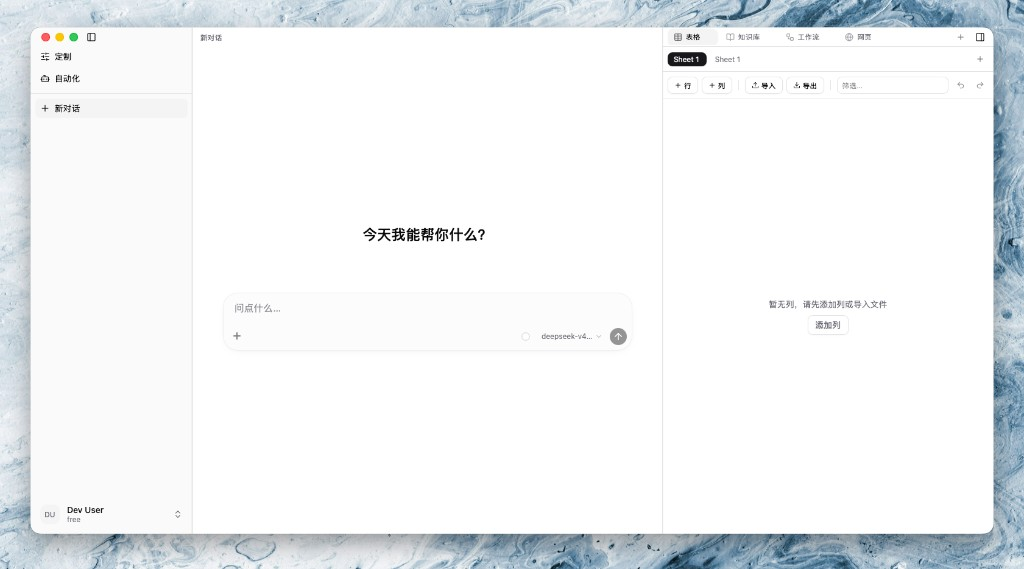
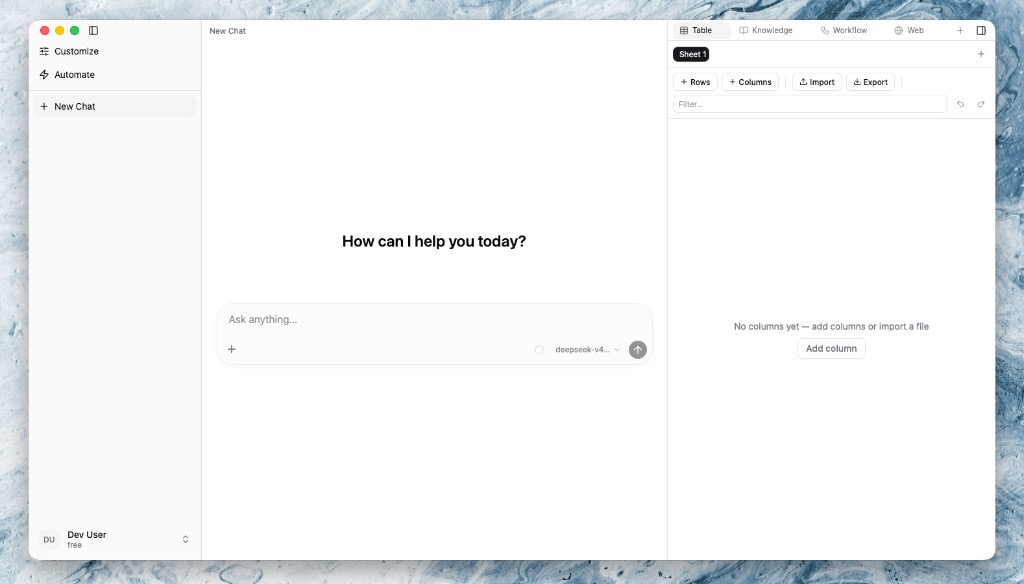
fix: dedupe sheet names, harden sheet delete, and unbreak Playwright smoke
Repair legacy duplicate sheet tabs on load, avoid full-grid reloads on
sheetsChange, flush persists before delete, and run e2e against the tsx
dev server. Also split EN/ZH README screenshots.

diff --git a/apps/server/src/table-store.ts b/apps/server/src/table-store.ts
@@ -123,7 +123,8 @@ function migrateLegacyEmptySheet(sheet: SheetState): boolean {
   sheet.columns = [];
   sheet.rows = [];
   if (sheet.meta.builtin && sheet.meta.name === 'Main Plan') {
-    sheet.meta.name = 'Sheet 1';
+    // Prefer "Sheet 1", but never collide with an existing tab name.
+    sheet.meta.name = allocateUniqueSheetName('Sheet 1', sheet.meta.id);
   }
   return true;
 }
@@ -258,6 +259,7 @@ export async function initTableStore(): Promise<void> {
     if (!sheetStore.has(DEFAULT_TABLE_SHEET)) {
       const initial = buildInitialStore();
       const main = initial.get(DEFAULT_TABLE_SHEET)!;
+      main.meta.name = allocateUniqueSheetName(main.meta.name, DEFAULT_TABLE_SHEET);
       sheetStore.set(DEFAULT_TABLE_SHEET, main);
       await enqueuePersist(DEFAULT_TABLE_SHEET);
     }
@@ -265,6 +267,7 @@ export async function initTableStore(): Promise<void> {
     for (const sheet of sheetStore.values()) {
       if (migrateLegacyEmptySheet(sheet)) migrated = true;
     }
+    if (repairDuplicateTableSheetNames()) migrated = true;
     if (migrated) await persistAll();
   }
   tableHydrated = true;
@@ -390,6 +393,10 @@ export function tryResolveTableSheetId(value: string | undefined): string | null
 }
 
 export function listTableSheets(): TableSheetMeta[] {
+  // One-shot repair for processes that hydrated before duplicate-name repair existed.
+  if (repairDuplicateTableSheetNames()) {
+    for (const id of sheetStore.keys()) tablePersist(id);
+  }
   return [...sheetStore.values()].map((s) => ({ ...s.meta }));
 }
 
@@ -643,6 +650,62 @@ export function isTableSheetNameTaken(name: string, excludeSheetId?: string): bo
   return false;
 }
 
+/**
+ * Pick a display name that does not collide with existing sheets.
+ * "Sheet 1" style names bump the number; other names get " (2)", " (3)", …
+ */
+export function allocateUniqueSheetName(preferred: string, excludeSheetId?: string): string {
+  const trimmed = preferred.trim() || 'Sheet';
+  if (!isTableSheetNameTaken(trimmed, excludeSheetId)) return trimmed;
+
+  const sheetMatch = trimmed.match(/^sheet\s*(\d+)$/i);
+  if (sheetMatch || /^sheet$/i.test(trimmed)) {
+    let n = sheetMatch ? Number(sheetMatch[1]) + 1 : 2;
+    while (isTableSheetNameTaken(`Sheet ${n}`, excludeSheetId)) n += 1;
+    return `Sheet ${n}`;
+  }
+
+  let n = 2;
+  while (isTableSheetNameTaken(`${trimmed} (${n})`, excludeSheetId)) n += 1;
+  return `${trimmed} (${n})`;
+}
+
+/**
+ * Repair legacy duplicate display names (created before uniqueness was enforced,
+ * or by Main Plan → Sheet 1 migration colliding with an existing tab).
+ * Keeps `main` / earlier ids; renames later collisions.
+ */
+export function repairDuplicateTableSheetNames(): boolean {
+  const ordered = [...sheetStore.values()].sort((a, b) => {
+    if (a.meta.id === DEFAULT_TABLE_SHEET) return -1;
+    if (b.meta.id === DEFAULT_TABLE_SHEET) return 1;
+    return a.meta.id.localeCompare(b.meta.id);
+  });
+  const claimed = new Set<string>();
+  let changed = false;
+  for (const sheet of ordered) {
+    const key = sheetNameKey(sheet.meta.name);
+    if (!key) continue;
+    if (!claimed.has(key)) {
+      claimed.add(key);
+      continue;
+    }
+    const next = allocateUniqueSheetName(sheet.meta.name, sheet.meta.id);
+    if (next === sheet.meta.name) continue;
+    sheet.meta = { ...sheet.meta, name: next };
+    claimed.add(sheetNameKey(next));
+    changed = true;
+  }
+  return changed;
+}
+
+/** Test-only: set a display name without uniqueness checks (to seed duplicate fixtures). */
+export function unsafeSetTableSheetNameForTests(sheetId: string, name: string): void {
+  const sheet = sheetStore.get(sheetId);
+  if (!sheet) throw new Error(`sheet not found: ${sheetId}`);
+  sheet.meta = { ...sheet.meta, name };
+}
+
 export function createTableSheet(name: string): TableSheetMeta | null {
   const trimmed = name.trim();
   if (!trimmed) return null;
@@ -677,29 +740,35 @@ export function renameTableSheet(sheetId: string, name: string): TableSheetMeta 
 export async function deleteTableSheet(sheetId: string): Promise<boolean> {
   const sheet = sheetStore.get(sheetId);
   if (!sheet) return false;
-  const snapshot: SheetState = {
-    meta: { ...sheet.meta },
-    columns: sheet.columns.map((c) => ({ ...c })),
-    rows: sheet.rows.map((r) => ({ ...r })),
-  };
-  sheetStore.delete(sheetId);
+
+  // Finish any in-flight persist first — otherwise a queued write can resurrect
+  // the sheet (or race Surreal) after DELETE. Avoid cloning all rows for rollback:
+  // large sheets (10k+ rows) would spike memory and make delete feel like a hang.
+  const pending = persistChains.get(sheetId);
+  if (pending) {
+    try {
+      await pending;
+    } catch {
+      /* persist errors are already logged */
+    }
+  }
+  persistChains.delete(sheetId);
+
   try {
     await deleteTableSheetDb(sheetId);
-    await ensureAtLeastOneSheet();
-    emitTable({ type: 'sheetsChange' });
-    return true;
   } catch (e) {
     console.error('[table] delete sheet failed:', e);
-    sheetStore.set(sheetId, snapshot);
-    if (sheetStore.size === 0) {
-      try {
-        await ensureAtLeastOneSheet();
-      } catch (ensureError) {
-        console.error('[table] ensure default sheet after rollback failed:', ensureError);
-      }
-    }
     return false;
   }
+
+  sheetStore.delete(sheetId);
+  try {
+    await ensureAtLeastOneSheet();
+  } catch (ensureError) {
+    console.error('[table] ensure default sheet after delete failed:', ensureError);
+  }
+  emitTable({ type: 'sheetsChange' });
+  return true;
 }
 
 /** After deleting the last sheet, seed a fresh default Sheet 1. */
@@ -707,6 +776,7 @@ async function ensureAtLeastOneSheet(): Promise<void> {
   if (sheetStore.size > 0) return;
   const initial = buildInitialStore();
   const main = initial.get(DEFAULT_TABLE_SHEET)!;
+  main.meta.name = allocateUniqueSheetName(main.meta.name, DEFAULT_TABLE_SHEET);
   sheetStore.set(DEFAULT_TABLE_SHEET, main);
   await enqueuePersist(DEFAULT_TABLE_SHEET);
 }

diff --git a/apps/web/src/components/assistant-ui/table-grid.tsx b/apps/web/src/components/assistant-ui/table-grid.tsx
@@ -150,6 +150,15 @@ async function fetchSchedule(sheetId: string): Promise<SchedulePayload> {
   return data;
 }
 
+async function fetchSheetList(): Promise<TableSheet[]> {
+  const res = await fetch('/api/table/sheets');
+  const data = await readJsonResponse<{ ok?: boolean; sheets?: TableSheet[] }>(res);
+  if (!res.ok || !data.sheets) {
+    throw new Error((data as { message?: string }).message ?? `HTTP ${res.status}`);
+  }
+  return data.sheets;
+}
+
 async function patchRow(sheetId: string, row: TableRow): Promise<boolean> {
   try {
     const res = await fetch('/api/table', {
@@ -851,7 +860,21 @@ export function TableGrid() {
         return;
       }
       if (e.type === 'sheetsChange') {
-        void load(activeSheetId, false);
+        // Only refresh tab metadata — do NOT full-reload rows (large sheets time out
+        // and surface as a spurious load/delete failure).
+        void fetchSheetList()
+          .then((nextSheets) => {
+            setSheets(nextSheets);
+            if (nextSheets.some((s) => s.id === activeSheetId)) return;
+            const fallback = nextSheets[0]?.id;
+            if (!fallback) return;
+            resetSheetUiState();
+            setActiveSheetId(fallback);
+            setLoading(true);
+          })
+          .catch(() => {
+            /* ignore — next user action will resync */
+          });
         return;
       }
       if (e.sheet !== activeSheetId) return;
@@ -873,7 +896,7 @@ export function TableGrid() {
       }
     };
     return () => es.close();
-  }, [activeSheetId, load]);
+  }, [activeSheetId, load, resetSheetUiState]);
 
   const filteredRows = useMemo(() => {
     const filtered = applyFilters(rows, filters);

diff --git a/apps/server/src/table-store-events.test.ts b/apps/server/src/table-store-events.test.ts
@@ -16,6 +16,10 @@ import {
   importTableSheet,
   createTableSheet,
   renameTableSheet,
+  allocateUniqueSheetName,
+  repairDuplicateTableSheetNames,
+  unsafeSetTableSheetNameForTests,
+  listTableSheets,
   type TableEvent,
 } from './table-store.js';
 
@@ -89,6 +93,25 @@ describe('table-store change events', () => {
     const cased = renameTableSheet(a.id, `UNIQUE ${stamp}`);
     assert.ok(cased);
     assert.equal(cased!.name, `UNIQUE ${stamp}`);
+  });
+
+  it('allocateUniqueSheetName bumps Sheet N and repairs legacy duplicates', () => {
+    const stamp = Date.now();
+    const a = createTableSheet(`Dup Base ${stamp}`)!;
+    assert.equal(allocateUniqueSheetName(`Dup Base ${stamp}`), `Dup Base ${stamp} (2)`);
+    // Builtin main is "Sheet 1" in a fresh store — next free tab is Sheet 2+.
+    assert.match(allocateUniqueSheetName('Sheet 1'), /^Sheet \d+$/);
+    assert.notEqual(allocateUniqueSheetName('Sheet 1'), 'Sheet 1');
+
+    const b = createTableSheet(`Dup Other ${stamp}`)!;
+    unsafeSetTableSheetNameForTests(a.id, `Clash ${stamp}`);
+    unsafeSetTableSheetNameForTests(b.id, `Clash ${stamp}`);
+    assert.equal(repairDuplicateTableSheetNames(), true);
+    const names = listTableSheets()
+      .filter((s) => s.id === a.id || s.id === b.id)
+      .map((s) => s.name)
+      .sort();
+    assert.deepEqual(names, [`Clash ${stamp}`, `Clash ${stamp} (2)`]);
   });
 
   it('unsubscribe stops delivery', () => {

diff --git a/apps/server/src/routes/tables.ts b/apps/server/src/routes/tables.ts
@@ -60,6 +60,12 @@ export function registerTablesRoutes(app: FastifyInstance, deps: ServerDeps): vo
     });
   });
 
+  // Lightweight sheet-tab list (no row payload) — used after sheetsChange SSE.
+  app.get('/api/table/sheets', async (req) => {
+    await deps.resolveContext(req.headers);
+    return { ok: true, sheets: listTableSheets() };
+  });
+
   app.post('/api/table/sheets', async (req, reply) => {
     await deps.resolveContext(req.headers);
     const { name } = (req.body ?? {}) as { name?: string };

diff --git a/apps/web/playwright.config.ts b/apps/web/playwright.config.ts
@@ -33,6 +33,9 @@ export default defineConfig({
       env: {
         VEYLIN_DESKTOP_AUTH: '1',
         VEYLIN_DATA_DIR: './data',
+        // CI/smoke has no prebuilt sidecar; use the same tsx path as desktop dev.
+        VEYLIN_SKIP_SIDECAR: '1',
+        VEYLIN_LAZY_MCP_BOOT: '1',
       },
     },
     {

diff --git a/README.zh-CN.md b/README.zh-CN.md
@@ -12,7 +12,7 @@
   <img alt="Node" src="https://img.shields.io/badge/node-%3E%3D22-339933">
 </p>
 
-![Veylin 桌面：对话、定制/自动化与右侧工作区](docs/images/veylin-desktop.jpg)
+![Veylin 桌面：对话、定制/自动化与右侧工作区](docs/images/veylin-desktop.zh-CN.jpg)
 
 ## 适合谁
 